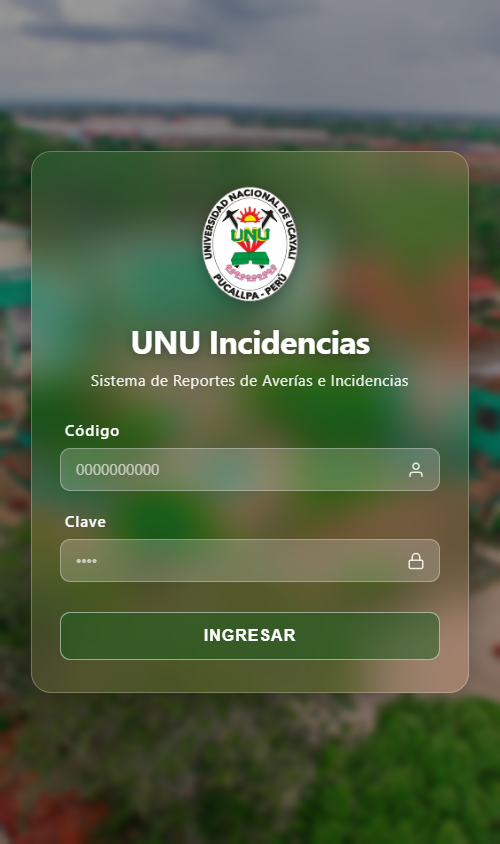
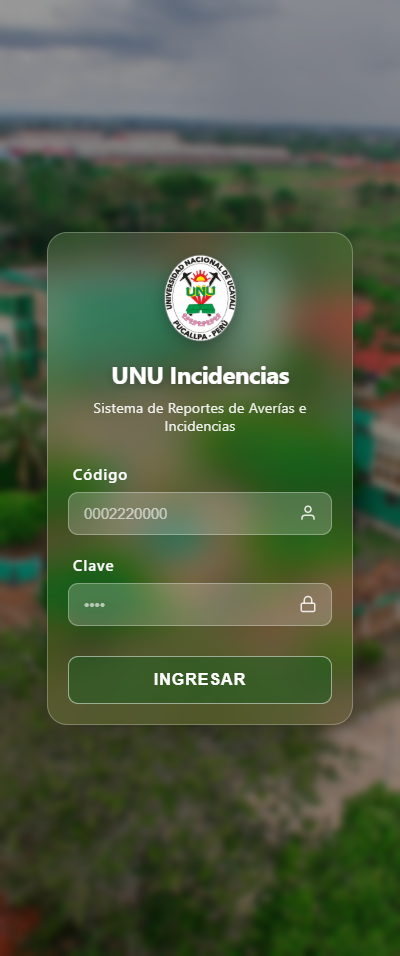
Actualizar README y capturas del proyecto
Se actualiza la documentación del proyecto para reflejar la nueva experiencia del trabajador (tablas, modal de revisión y dashboard) y se eliminan secciones de flujo de desarrollo y contribución. También se reemplazan las capturas de pantalla para mantener las imágenes alineadas con la versión actual.

diff --git a/README.md b/README.md
@@ -149,19 +149,10 @@ Reportes_UNU/
 - **Estudiante:** feed Últimos/Populares/Mis reportes (grid 2 col, filtros por
   categoría/ubicación/búsqueda, `?page=&limit=`, visor de foto, likes), crear/editar
   con foto comprimida en front, fechas estilo red social, bottom-nav en móvil.
-- **Trabajador:** listas Pendientes/Aceptados/Solucionados con vista de tarjetas en
-  móvil (sin scroll horizontal, botón Ver siempre visible), buscador con etiqueta,
-  botón limpiar y conteo `X de Y`, botones a 44px, modal de revisión que ya no se
-  cierra al tocar fuera (aceptar/resolver/actualizar/eliminar), dashboard con KPIs,
-  tendencia mensual, dona por tipo y estado, top ubicaciones, gráficos fluidos en móvil.
+- **Trabajador:** tablas Pendientes/Aceptados/Solucionados (búsqueda, sin Carrera),
+  modal de revisión (aceptar/resolver/actualizar/eliminar), dashboard con KPIs,
+  tendencia mensual, dona por tipo y estado, top ubicaciones.
 - **Sistema:** login por sesión, 404 propio, `environment.prod.ts` para despliegue.
-
-## Flujo de desarrollo
-
-- Rama `main` es la que se despliega (Vercel lee `main`, Render lee `render.yaml`).
-- Cambios: editar → `npm run build` en `frontend/` → `git add .` → commit en español
-  (`fix(admin): ...`) → `git push`. Vercel redespliega solo.
-- Credenciales de prueba: estudiante `0002221081` / `1081`, trabajador `0001111000` / `1111`.
 
 ## API principal
 
@@ -227,15 +218,6 @@ Sin runner automatizado; verificación por capas:
 ## Licencia
 
 Este proyecto se distribuye bajo la licencia **MIT**. Consulta el archivo `LICENSE` para más detalles.
-
-## Cómo contribuir
-
-1. Crea una rama desde `main` (`fix/...` o `feat/...`).
-2. Sigue las convenciones de arriba (servicios con `withCredentials`, validaciones,
-   tokens `--eu-*`, comentarios guía en español).
-3. Verifica con `npm run build` en `frontend/` y humo manual (login ambos roles,
-   crear → revisar → eliminar, consola sin errores).
-4. Commit en español imperativo y push para revisión.
 
 ---
 
